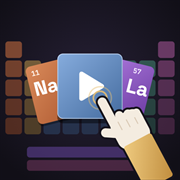
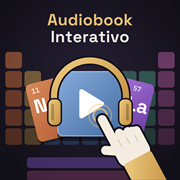
v20.7 · Ícone novo do app (Audiobook Interativo, com fones e mão no play), gerado em todos os tamanhos e com ?v=4 para os aparelhos trocarem

diff --git a/tabela-periodica.html b/tabela-periodica.html
@@ -15,11 +15,11 @@
 <meta name="application-name" content="Tabela interativa">
 <meta name="description" content="O audiobook interativo da Tabela Periódica do Prof. Amauri Junior: a aula guiada por áudio, com os 118 elementos em cubos que giram.">
 <link rel="manifest" href="manifest.webmanifest">
-<!-- os ícones levam ?v=3: o endereço novo é o que faz o aparelho trocar o
+<!-- os ícones levam ?v=4: o endereço novo é o que faz o aparelho trocar o
      ícone que guardou do app instalado -->
-<link rel="icon" type="image/png" sizes="32x32" href="icones/app-32.png?v=3">
-<link rel="icon" type="image/png" sizes="192x192" href="icones/app-192.png?v=3">
-<link rel="apple-touch-icon" sizes="180x180" href="icones/app-180.png?v=3">
+<link rel="icon" type="image/png" sizes="32x32" href="icones/app-32.png?v=4">
+<link rel="icon" type="image/png" sizes="192x192" href="icones/app-192.png?v=4">
+<link rel="apple-touch-icon" sizes="180x180" href="icones/app-180.png?v=4">
 <!-- AS FONTES MORAM AQUI DENTRO, como no app do professor: o aluno abre
      isto no celular da casa dele, e nada é pedido para fora. -->
 <link rel="stylesheet" href="fontes/fontes.css">
@@ -2685,7 +2685,7 @@ const SLIDES = [
    worker recebe-a no endereço com que é registado (sw.js?v=…). Mudando
    este texto, muda o endereço, o aparelho instala o serviço novo e o
    cache velho vai-se embora — não há uma segunda versão para esquecer. */
-const VERSAO = 'v20.6';
+const VERSAO = 'v20.7';
 
 /* A CAPA NOVA — a ideia do Claude Design: fundo escuro, o título grande e
    claro à esquerda, a tabelinha apagada ao fundo à direita e o sódio, o

diff --git a/sw.js b/sw.js
@@ -22,13 +22,13 @@ const CASCA = [
   './index.html',
   './tabela-periodica.html',
   './manifest.webmanifest',
-  './icones/app-32.png?v=3',
-  './icones/app-180.png?v=3',
-  './icones/app-192.png?v=3',
-  './icones/app-512.png?v=3',
-  './icones/app-1024.png?v=3',
-  './icones/app-maskable-192.png?v=3',
-  './icones/app-maskable-512.png?v=3',
+  './icones/app-32.png?v=4',
+  './icones/app-180.png?v=4',
+  './icones/app-192.png?v=4',
+  './icones/app-512.png?v=4',
+  './icones/app-1024.png?v=4',
+  './icones/app-maskable-192.png?v=4',
+  './icones/app-maskable-512.png?v=4',
   './Imagens/amauri_jr.jpg',
   './Audios/audio_tabela_0.mp3',
   './Audios/audio_tabela_1.mp3',
